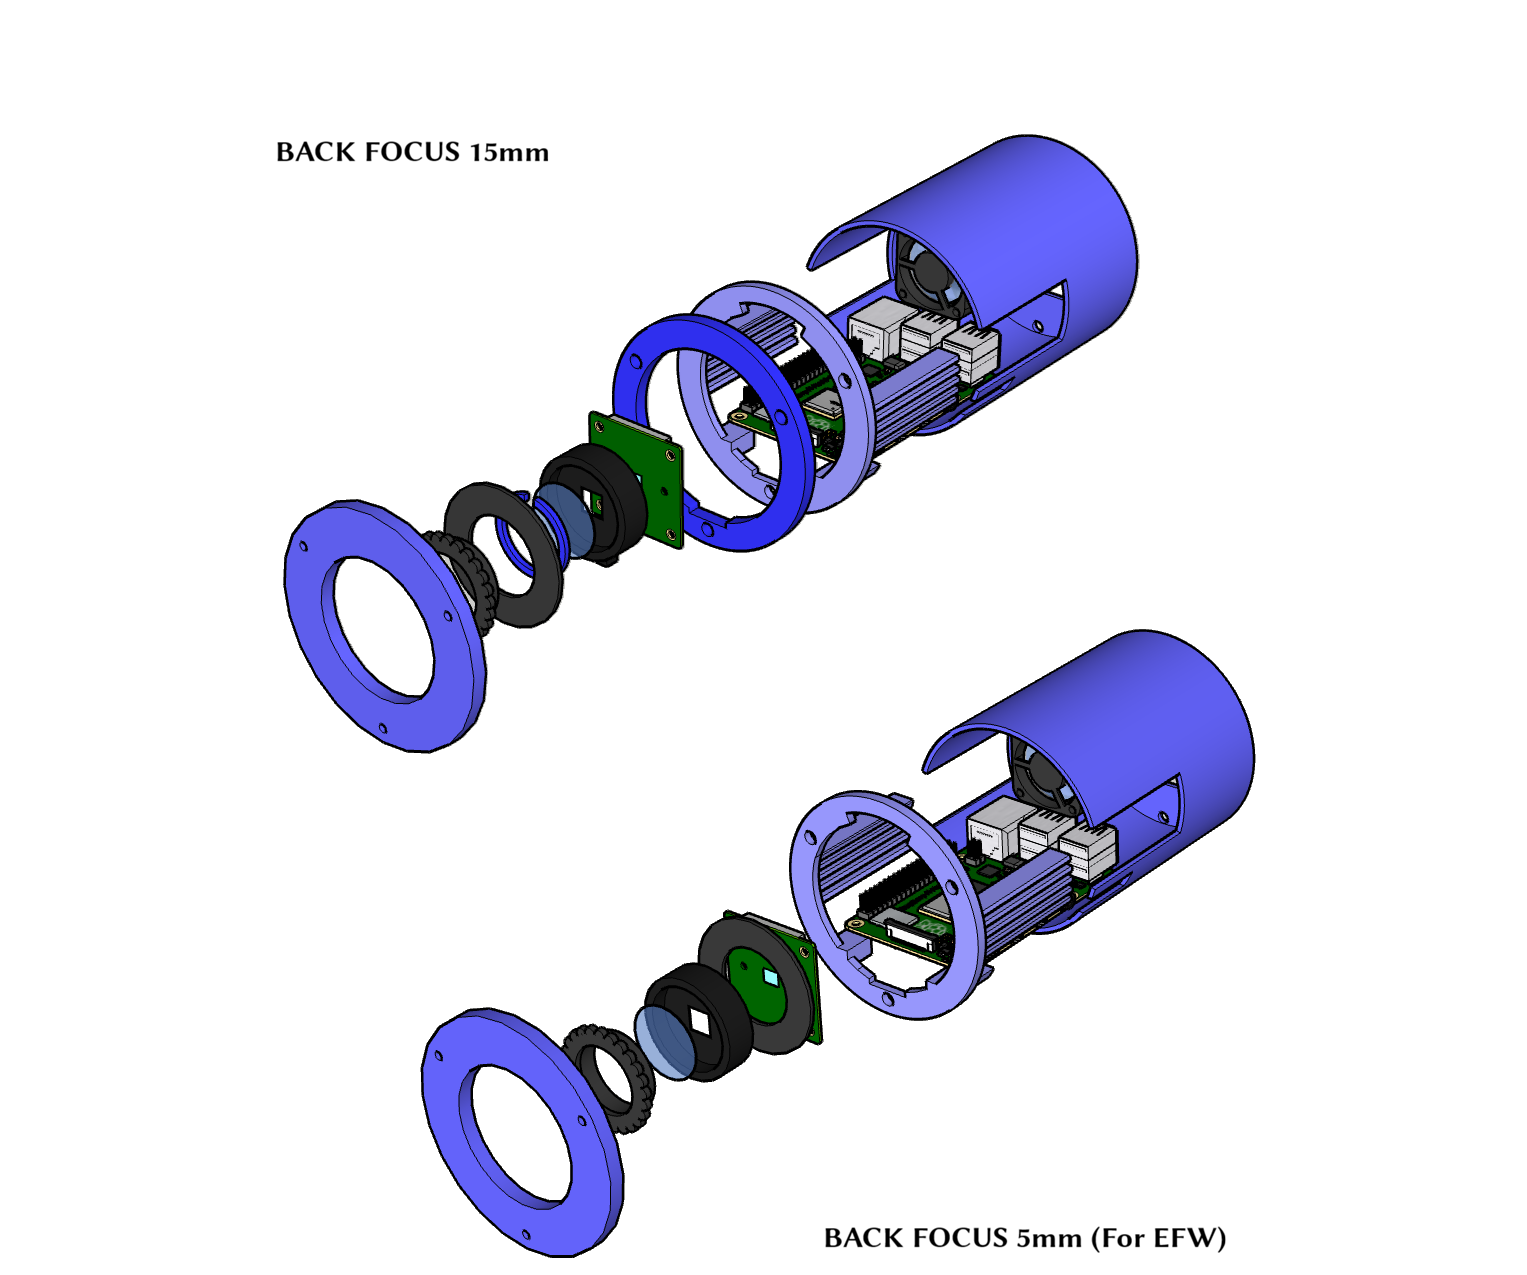
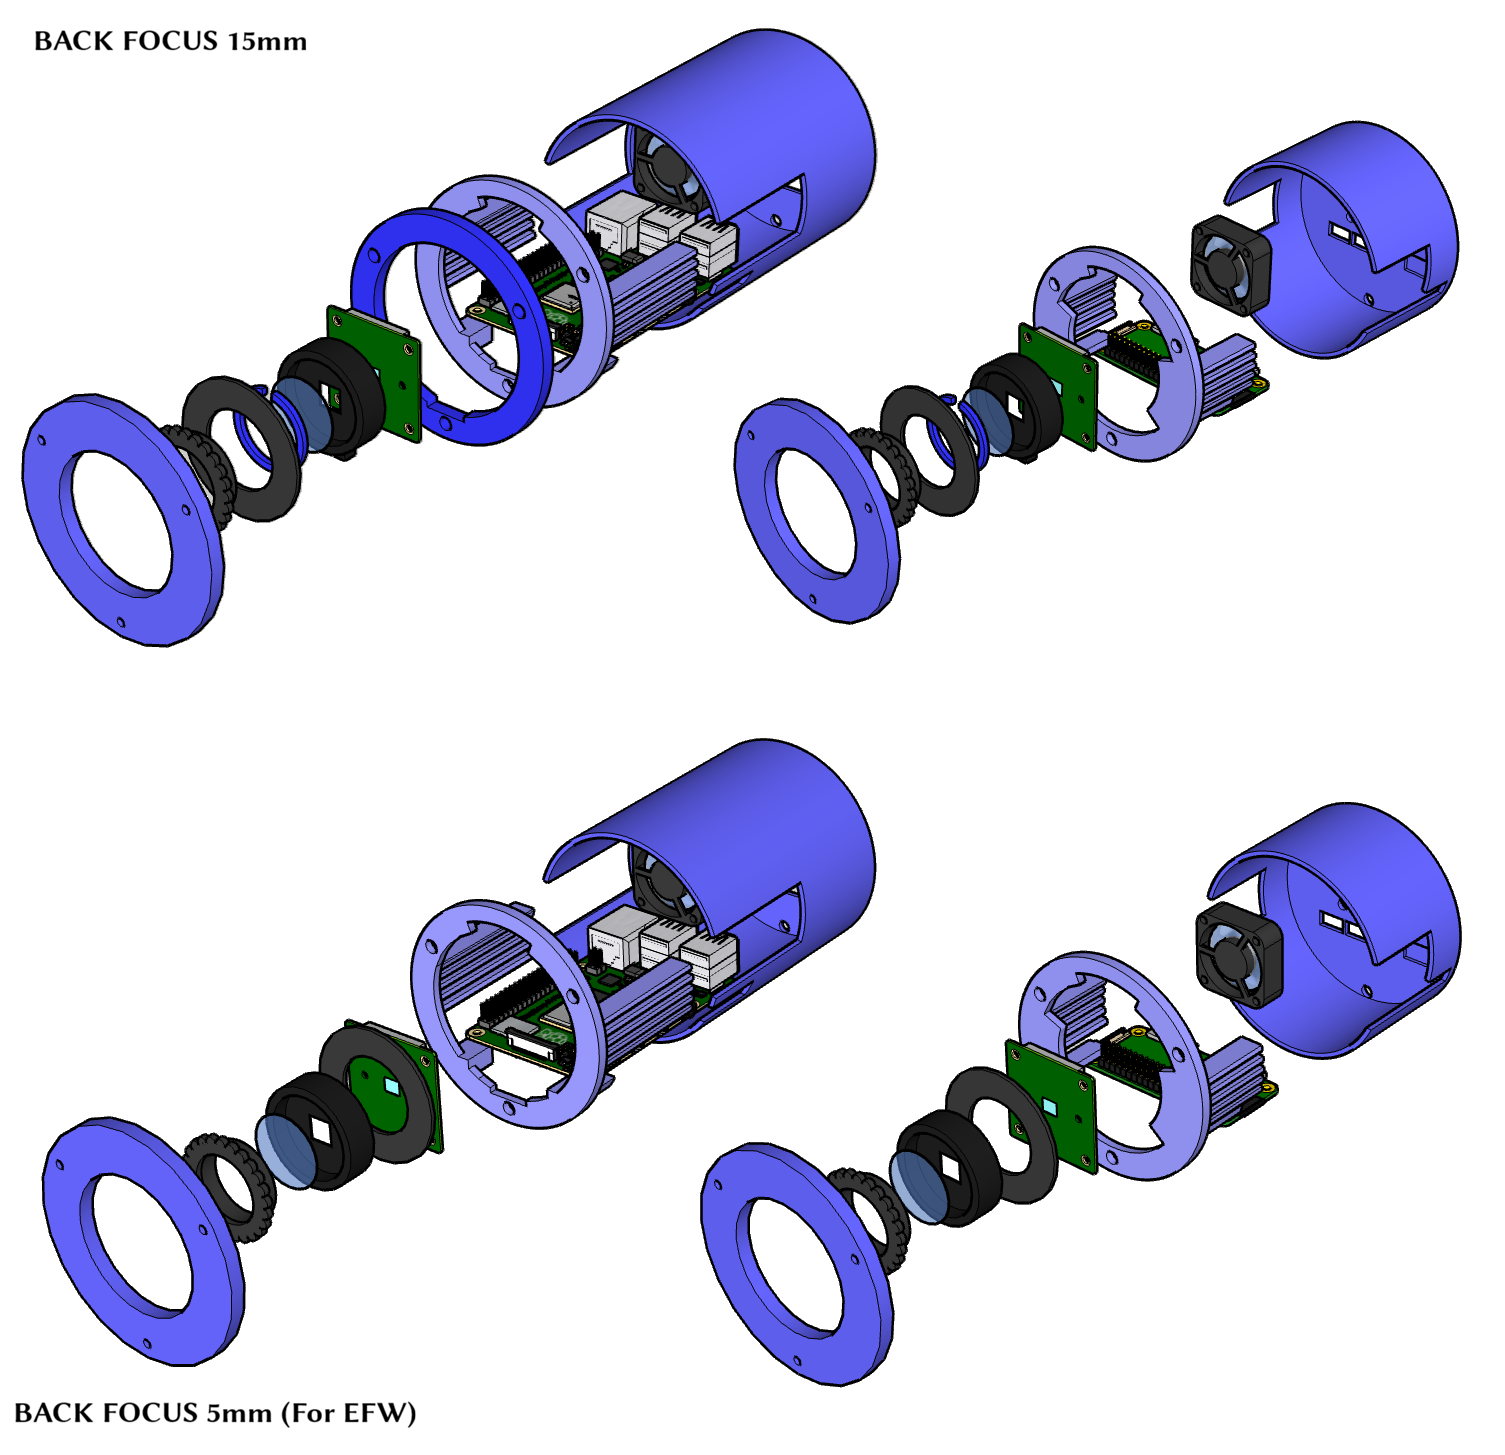
Update Raspicam 2026

diff --git a/README.md b/README.md
@@ -27,13 +27,16 @@ Design of a CMOS camera based on the imx219, imx477, imx296 or (imx290 untested)
 	3D/clip_imx_2w.stl 
 	3D/box_cover_imx_2w.stl
 
-### RaspiCam 2026
+### RaspiCam 2026 (Pi 4 or Pi Zero 2W)
 <img src="3D_camera.png">
 	
 	3D/camera_imx477.stl
 	3D/camera_imx477_cover.stl
 	3D/spacer_imx477.stl
 	3D/nut_imx477.stl
+	Or
+	3D/cammini_imx477.stl
+	3D/cammini_imx477_cover.stl
 	
 # Software & facilities
 
